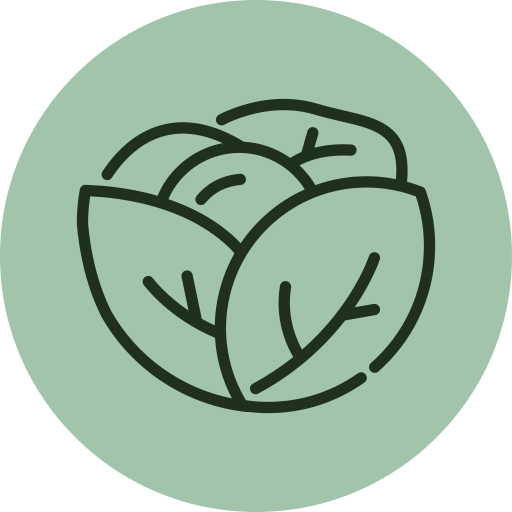
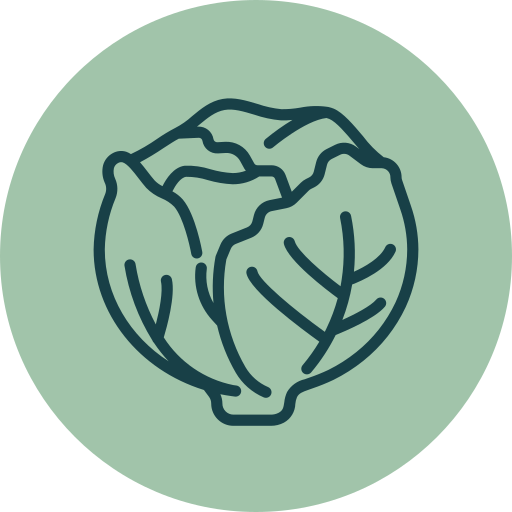
feat: new fonts and colours

Changed region(s): [[0.125, 0.1875, 0.875, 0.8438]]

diff --git a/src/app/modules/home/benefits/benefits.section.tsx b/src/app/modules/home/benefits/benefits.section.tsx
@@ -4,100 +4,114 @@ import { Row, Col } from "react-flexbox-grid/dist/react-flexbox-grid";
 import { Hbox } from "atomic/obj.hbox/hbox.component";
 import { ImageObj } from "atomic/atm.image";
 import { Separator } from "@atomic/atm.separator/separator.style";
-import { Body, H2, H3 } from "atomic/atm.typography";
+import { Body, H1, H2, H3, Stats } from "atomic/atm.typography";
 import { CardFrame } from "@atomic/mol.card";
-import { Link } from "react-scroll";
-import { Button } from "@atomic/atm.button";
 
 export const BenefitsSection: React.FC = () => {
   return (
     <>
       <Grid>
         <Separator type={"section"} />
-        <Row between={"xs"} middle={"sm"} around={"xs"}>
-          <Col xs={12} md={12} lg={4}>
-            <H2>Por que é mais saudável e barato se alimentar com a Arbos?</H2>
-            <Body>Conheça os benefícios dos nossos vegetais e melhore sua saúde sem pagar muito por isso</Body>
-            <Separator type={"subsection"} />
-            <Link to={"requestSection"} smooth>
-              <Button kind={"callToAction"}>Quero ser mais saudável</Button>
-            </Link>
-            <Separator type={"subsection"} />
+        <Row center={"xs"}>
+          <Col xs={12}>
+            <H1>Como funciona?</H1>
           </Col>
-          <Col xs={12} md={12} lg={8}>
-            <Row>
-              <Col xs={12} lg={6}>
-                <CardFrame hoverEffect={true} paddingType={"large"}>
-                  <Hbox>
-                    <Hbox.Item noGrow={true} vAlign={"center"}>
-                      <ImageObj.GiftIcon />
-                    </Hbox.Item>
-                    <Hbox.Separator />
-                    <Hbox.Item vAlign={"center"}>
-                      <H3>Mais prático</H3>
-                    </Hbox.Item>
-                  </Hbox>
-                  <Separator type={"line"} />
-                  <Body>
-                    Te entregamos um box com saladas semi-prontas para a semana inteira. É só misturar com os molhos e
-                    comer!
-                  </Body>
-                </CardFrame>
-                <Separator type={"line"} />
-              </Col>
-              <Col xs={12} lg={6}>
-                <CardFrame hoverEffect={true} paddingType={"large"}>
-                  <Hbox>
-                    <Hbox.Item noGrow={true} vAlign={"center"}>
-                      <ImageObj.DollarIcon />
-                    </Hbox.Item>
-                    <Hbox.Separator />
-                    <Hbox.Item vAlign={"center"}>
-                      <H3>Mais barato</H3>
-                    </Hbox.Item>
-                  </Hbox>
-                  <Separator type={"line"} />
-                  <Body>
-                    Produzimos nossas saladas com a maior eficiência para você ser saudável sem pagar muito por isso
-                  </Body>
-                </CardFrame>
-                <Separator type={"line"} />
-              </Col>
-              <Col xs={12} lg={6}>
-                <CardFrame hoverEffect={true} paddingType={"large"}>
-                  <Hbox>
-                    <Hbox.Item noGrow={true} vAlign={"center"}>
-                      <ImageObj.LettuceIcon />
-                    </Hbox.Item>
-                    <Hbox.Separator />
-                    <Hbox.Item vAlign={"center"}>
-                      <H3>Mais frescos</H3>
-                    </Hbox.Item>
-                  </Hbox>
-                  <Separator type={"line"} />
-                  <Body>Os vegetais são plantados aqui no bairro sem qualquer tipo de pesticida ou conservante.</Body>
-                </CardFrame>
-                <Separator type={"line"} />
-              </Col>
-              <Col xs={12} lg={6}>
-                <CardFrame hoverEffect={true} paddingType={"large"}>
-                  <Hbox>
-                    <Hbox.Item noGrow={true} vAlign={"center"}>
-                      <ImageObj.WorldIcon />
-                    </Hbox.Item>
-                    <Hbox.Separator />
-                    <Hbox.Item vAlign={"center"}>
-                      <H3>Mais sustentáveis</H3>
-                    </Hbox.Item>
-                  </Hbox>
-                  <Separator type={"line"} />
-                  <Body>
-                    Reutilizamos 95% da água utilizada no plantio. Ajude o seu planeta a se tornar mais sustentável.
-                  </Body>
-                </CardFrame>
-                <Separator type={"line"} />
-              </Col>
-            </Row>
+        </Row>
+        <Separator type={"subsection"} />
+        <Row>
+          <Col xs={12} lg={3}>
+            <Hbox>
+              <Hbox.Item hAlign={"center"}>
+                <ImageObj.Menu />
+              </Hbox.Item>
+            </Hbox>
+            <Separator type={"line"} />
+            <CardFrame hoverEffect={true} paddingType={"large"}>
+              <Hbox>
+                <Hbox.Item noGrow={true} vAlign={"center"}>
+                  <Stats>1</Stats>
+                </Hbox.Item>
+                <Hbox.Separator />
+                <Hbox.Item vAlign={"center"}>
+                  <H3>Você escolhe</H3>
+                </Hbox.Item>
+              </Hbox>
+              <Separator type={"line"} />
+              <Body>
+                Entregamos saladas semi-prontas na porta da sua casa. É só misturar com nossos molhos e comer!
+              </Body>
+            </CardFrame>
+            <Separator type={"line"} />
+          </Col>
+          <Col xs={12} lg={3}>
+            <Hbox>
+              <Hbox.Item hAlign={"center"}>
+                <ImageObj.Truck />
+              </Hbox.Item>
+            </Hbox>
+            <Separator type={"line"} />
+            <CardFrame hoverEffect={true} paddingType={"large"}>
+              <Hbox>
+                <Hbox.Item noGrow={true} vAlign={"center"}>
+                  <Stats>2</Stats>
+                </Hbox.Item>
+                <Hbox.Separator />
+                <Hbox.Item vAlign={"center"}>
+                  <H3>Nós entregamos</H3>
+                </Hbox.Item>
+              </Hbox>
+              <Separator type={"line"} />
+              <Body>
+                Produzimos nossas saladas com a maior eficiência para você ser saudável sem pagar muito por isso
+              </Body>
+            </CardFrame>
+            <Separator type={"line"} />
+          </Col>
+          <Col xs={12} lg={3}>
+            <Hbox>
+              <Hbox.Item hAlign={"center"}>
+                <ImageObj.Bowl />
+              </Hbox.Item>
+            </Hbox>
+            <Separator type={"line"} />
+            <CardFrame hoverEffect={true} paddingType={"large"}>
+              <Hbox>
+                <Hbox.Item noGrow={true} vAlign={"center"}>
+                  <Stats>3</Stats>
+                </Hbox.Item>
+                <Hbox.Separator />
+                <Hbox.Item vAlign={"center"}>
+                  <H3>Você mistura</H3>
+                </Hbox.Item>
+              </Hbox>
+              <Separator type={"line"} />
+              <Body>Os vegetais são plantados aqui no bairro sem qualquer tipo de pesticida ou conservante.</Body>
+            </CardFrame>
+            <Separator type={"line"} />
+          </Col>
+          <Col xs={12} lg={3}>
+            <Hbox>
+              <Hbox.Item hAlign={"center"}>
+                <ImageObj.Eat />
+              </Hbox.Item>
+            </Hbox>
+            <Separator type={"line"} />
+            <CardFrame hoverEffect={true} paddingType={"large"}>
+              <Hbox>
+                <Hbox.Item noGrow={true} vAlign={"center"}>
+                  <Stats>4</Stats>
+                </Hbox.Item>
+                <Hbox.Separator />
+                <Hbox.Item vAlign={"center"}>
+                  <H3>Você come</H3>
+                </Hbox.Item>
+              </Hbox>
+              <Separator type={"line"} />
+              <Body>
+                Reutilizamos 95% da água utilizada no plantio. Ajude o seu planeta a se tornar mais sustentável.
+              </Body>
+            </CardFrame>
+            <Separator type={"line"} />
           </Col>
         </Row>
         <Separator type={"section"} />

diff --git a/src/atomic/atm.image/image-obj.component.tsx b/src/atomic/atm.image/image-obj.component.tsx
@@ -2,15 +2,19 @@
 import { Image } from "./image.component";
 
 import clockIcon from "@assets/img/ic-clock.png";
+import coinsIcon from "@assets/img/ic-coins.png";
 import dollarIcon from "@assets/img/ic-dollar.png";
 import giftIcon from "@assets/img/ic-gift.png";
 import lettuceIcon from "@assets/img/ic-lettuce.png";
 import noChemicalIcon from "@assets/img/ic-non-toxic.png";
-import sprout from "@assets/img/ic-sprout.png";
-import truck from "@assets/img/ic-truck.png";
+import sproutIcon from "@assets/img/ic-sprout.png";
+import truckIcon from "@assets/img/ic-truck.png";
+import vegetablesIcon from "@assets/img/ic-vegetables.png";
 import worldIcon from "@assets/img/ic-world.png";
 
 import arugula from "@assets/img/img-arugula.png";
+import bowl from "@assets/img/img-bowl.png";
+import eat from "@assets/img/img-eat.png";
 import garden from "@assets/img/img-garden.png";
 import harvest from "@assets/img/img-harvest.png";
 import hub from "@assets/img/img-hub.jpg";
@@ -18,19 +22,25 @@ import hubFull from "@assets/img/img-hub-full.png";
 import leaf from "@assets/img/img-leaf.png";
 import lettuce from "@assets/img/img-lettuce.png";
 import logoArbos from "@assets/img/img-logo.png";
+import menu from "@assets/img/img-menu.png";
 import muda from "@assets/img/img-muda.png";
 import salad from "@assets/img/img-salad.png";
+import truck from "@assets/img/img-truck.png";
 
 export const ImageObj = {
+  CoinsIcon: () => <Image src={coinsIcon} alt={"Moedas"} width={"50px"} height={"50px"} />,
   ClockIcon: () => <Image src={clockIcon} alt={"Relógio"} width={"50px"} height={"50px"} />,
   DollarIcon: () => <Image src={dollarIcon} alt={"Moeda"} width={"50px"} height={"50px"} />,
   GiftIcon: () => <Image src={giftIcon} alt={"Presente"} width={"50px"} height={"50px"} />,
   LettuceIcon: () => <Image src={lettuceIcon} alt={"Alface"} width={"50px"} height={"50px"} />,
   NoChemicalIcon: () => <Image src={noChemicalIcon} alt={"Sem químicos"} width={"50px"} height={"50px"} />,
-  Sprout: () => <Image src={sprout} alt={"Muda"} width={"50px"} height={"50px"} />,
-  Truck: () => <Image src={truck} alt={"Caminhão"} width={"50px"} height={"50px"} />,
+  SproutIcon: () => <Image src={sproutIcon} alt={"Muda"} width={"50px"} height={"50px"} />,
+  TruckIcon: () => <Image src={truckIcon} alt={"Caminhão"} width={"50px"} height={"50px"} />,
+  VegetablesIcon: () => <Image src={vegetablesIcon} alt={"Vegetais"} width={"50px"} height={"50px"} />,
   WorldIcon: () => <Image src={worldIcon} alt={"Planeta"} width={"50px"} height={"50px"} />,
 
+  Bowl: () => <Image src={bowl} alt={"Pote de salada"} width={"200px"} height={"200px"} />,
+  Eat: () => <Image src={eat} alt={"Comer"} width={"200px"} height={"200px"} />,
   Garden: () => <Image src={garden} alt={"Jardim"} width={"436px"} height={"370px"} />,
   Harvest: () => <Image src={arugula} alt={"Colheita"} width={"350px"} height={"350px"} />,
   Hub: () => <Image src={hub} alt={"Hub"} width={"360px"} height={"542px"} />,
@@ -38,5 +48,7 @@ export const ImageObj = {
   Leaf: () => <Image src={leaf} alt={"Folha"} width={"106px"} height={"150px"} />,
   Lettuce: () => <Image src={lettuce} alt={"Alface"} width={"450px"} height={"450px"} />,
   LogoArbos: () => <Image src={logoArbos} alt={"Logo da Arbos"} width={"70px"} height={"70px"} />,
+  Menu: () => <Image src={menu} alt={"Cardápio"} width={"200px"} height={"200px"} />,
   Salad: () => <Image src={salad} alt={"Salada"} width={"500px"} height={"500px"} />,
+  Truck: () => <Image src={truck} alt={"Caminhão"} width={"200px"} height={"200px"} />,
 };

diff --git a/src/pages/_app.tsx b/src/pages/_app.tsx
@@ -13,9 +13,9 @@ import { useFlashStore } from "app/providers/flash.message.store";
 import { ApolloProvider } from "@apollo/client";
 import { client } from "app/core/graphql/apollo-client";
 import { ColumnComponents, ColumnSideMenu, WrapperPage } from "@atomic/obj.grid/grid";
-import { SideMenu } from '@app/modules/private-area/side-menu/side-menu.component'
-import { MobilePrivateMenu } from '@app/modules/private-area/mobile-menu/mobile-private-menu.component'
-import * as gtag from '../../lib/gtag'
+import { SideMenu } from "@app/modules/private-area/side-menu/side-menu.component";
+import { MobilePrivateMenu } from "@app/modules/private-area/mobile-menu/mobile-private-menu.component";
+import * as gtag from "../../lib/gtag";
 
 function MyApp({ Component, pageProps }: AppProps) {
   const [logged, setLogged] = useState<boolean>();
@@ -31,13 +31,13 @@ function MyApp({ Component, pageProps }: AppProps) {
 
   useEffect(() => {
     const handleRouteChange = (url) => {
-      gtag.pageview(url)
-    }
-    router.events.on('routeChangeComplete', handleRouteChange)
+      gtag.pageview(url);
+    };
+    router.events.on("routeChangeComplete", handleRouteChange);
     return () => {
-      router.events.off('routeChangeComplete', handleRouteChange)
-    }
-  }, [router.events])
+      router.events.off("routeChangeComplete", handleRouteChange);
+    };
+  }, [router.events]);
 
   return (
     <>
@@ -46,6 +46,10 @@ function MyApp({ Component, pageProps }: AppProps) {
         <link rel="preconnect" href="https://fonts.gstatic.com" />
         <link
           href="https://fonts.googleapis.com/css2?family=Belleza&family=Source+Serif+Pro:ital,wght@0,200;0,300;0,400;0,600;0,700;0,900;1,200;1,300;1,400;1,600;1,700;1,900&display=swap"
+          rel="stylesheet"
+        />
+        <link
+          href="https://fonts.googleapis.com/css2?family=Crimson+Pro:ital,wght@0,200;0,300;0,400;0,500;0,600;0,700;0,800;0,900;1,200;1,300;1,400;1,500;1,600;1,700;1,800;1,900&family=Inria+Serif:ital,wght@0,300;0,400;0,700;1,300;1,400;1,700&family=Playfair+Display:ital,wght@0,400;0,500;0,600;0,700;0,800;0,900;1,400;1,500;1,600;1,700;1,800;1,900&display=swap"
           rel="stylesheet"
         />
       </Head>

diff --git a/src/app/modules/home/hero/hero.component.tsx b/src/app/modules/home/hero/hero.component.tsx
@@ -14,12 +14,12 @@ export const Hero: React.FC = () => (
         <Row middle={"xs"}>
           <Col xs={12} lg={6}>
             <DisplayStyled>
-              Ser saudável nunca foi
-              <StrongWordBoxStyled>tão barato e fácil</StrongWordBoxStyled>
+              Saudável.
+              <StrongWordBoxStyled>Barato. Prático.</StrongWordBoxStyled>
             </DisplayStyled>
             <Subheading>Você pode comer uma salada saborosa, fresca e por um preço acessível</Subheading>
             <Separator type={"subsection"} />
-            <Link to={'requestSection'} smooth>
+            <Link to={"requestSection"} smooth>
               <Button kind={"callToAction"}>Quero ser saudável</Button>
             </Link>
           </Col>
@@ -29,6 +29,21 @@ export const Hero: React.FC = () => (
                 <ImageObj.Salad />
               </Hbox.Item>
             </Hbox>
+          </Col>
+        </Row>
+        <Separator type={"subsection"} />
+        <Row center={"xs"}>
+          <Col xs={4}>
+            <ImageObj.TruckIcon />
+            <Body>Você recebe as saladas em casa</Body>
+          </Col>
+          <Col xs={4}>
+            <ImageObj.CoinsIcon />
+            <Body>Nunca mais pague mais de R$20,00 em uma salada</Body>
+          </Col>
+          <Col xs={4}>
+            <ImageObj.LettuceIcon />
+            <Body>As nossas folhosas são plantadas aqui no bairro</Body>
           </Col>
         </Row>
       </HeroGridStyled>

diff --git a/src/atomic/obj.constants/constants.ts b/src/atomic/obj.constants/constants.ts
@@ -1,7 +1,7 @@
 export enum BrandColor {
   Green = "#578959",
   LightGreen = "#A1C4AA",
-  DarkGreen = "#1F301E",
+  DarkGreen = "#184047",
   Red = "#DC143C",
 }
 
@@ -21,7 +21,7 @@ export class Color {
   public static readonly GrayXDark = "#222";
   public static readonly GrayDark = "#555";
   public static readonly Gray = "#BDBDBD";
-  public static readonly GrayLight = "#E8E8E8";
+  public static readonly GrayLight = "#EBEBEB";
   public static readonly GrayXLight = "#F9F9F9";
 
   public static readonly Background = "#FFFDFB";
@@ -56,8 +56,9 @@ export enum ProportionalSpacing {
 }
 
 export enum FontFamily {
-  Primary = "Source Serif Pro",
-  Secondary = "Belleza",
+  Primary = "Playfair Display",
+  Secondary = "Crimson Pro",
+  Subheading = "Inria Serif"
 }
 
 export enum FontWeight {

diff --git a/src/app/modules/home/hero/hero.component.style.ts b/src/app/modules/home/hero/hero.component.style.ts
@@ -7,8 +7,7 @@ import { DisplayStyled, Subheading } from "atomic/atm.typography/typography";
 export const HeroStyled = styled.div`
   margin-top: 0px;
   height: 100vh;
-
-  background: ${Color.GrayXLight};
+  background: ${Color.GrayLight};
 `;
 
 export const HeroGridStyled = styled(Grid)`
@@ -23,8 +22,4 @@ export const StrongWordBoxStyled = styled.div`
   color: ${Color.Primary};
   min-height: 6rem;
   width: 100%;
-
-  @media (max-width: ${Breakpoint.Desktop}) {
-    color: ${Color.White};
-  }
 `;

diff --git a/src/atomic/atm.typography/typography.ts b/src/atomic/atm.typography/typography.ts
@@ -192,7 +192,7 @@ export const Stats = styled.label`
   font-size: ${FontSize.Large};
   line-height: ${LineHeight.Large};
   font-weight: ${FontWeight.Bold};
-  color: ${Color.Black};
+  color: ${Color.Primary};
   background-color: transparent;
 `
 export const DL = styled.dl`
